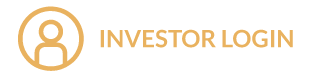
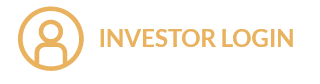
landing page changes

diff --git a/src/pages/landing-screen/Landing2.js b/src/pages/landing-screen/Landing2.js
@@ -11,6 +11,8 @@ import sunImg from "./../../assets/images/sun_gif.gif";
 // import sunImg from "./../../assets/images/sun.gif";
 
 import loginImg from "./../../assets/images/Investor-LoginBTN.png";
+import loginImgHover from "./../../assets/images/Investor-LoginBTNwhite.png";
+
 import TransitionButton from "../../components/common/transitionButton";
 const useStyles = makeStyles({
   main: {
@@ -161,9 +163,28 @@ const useStyles = makeStyles({
     marginTop: "60px",
     textAlign: "center",
     paddingRight: "20px",
+    cursor: "pointer",
   },
   submitBtn: {
     margin: "auto",
+  },
+  loginBtn: {
+    background: `url(${loginImgHover})`,
+    width: "150px",
+    height: "40px",
+    backgroundSize: "150px",
+    backgroundRepeat: "no-repeat",
+    margin: "auto",
+    alignSelf: "center",
+    left: "0",
+    marginRight: "0",
+    "&:hover": {
+      background: `url(${loginImg})`,
+      width: "150px",
+      height: "40px",
+      backgroundSize: "150px",
+      backgroundRepeat: "no-repeat",
+    },
   },
   "@media only screen and (max-width: 480px)": {
     web: {
@@ -180,8 +201,16 @@ const useStyles = makeStyles({
       alignItems: "center",
     },
     head1: {
-      fontSize: "9px",
-      // width: "60%",
+      fontSize: "15px",
+      wordWrap: "break-word",
+      whiteSpace: "initial",
+      width: "80%",
+      height: "auto",
+      lineHeight: "27px",
+      margin: "auto",
+      marginTop: "20px",
+      color: "#E9B25F",
+      background: "none",
     },
     head2: {
       fontSize: "20px",
@@ -241,6 +270,9 @@ const useStyles = makeStyles({
       marginTop: "30px",
       textAlign: "center",
       paddingRight: "0 !important",
+    },
+    loginBtn: {
+      marginRight: "auto",
     },
   },
 });
@@ -312,14 +344,14 @@ const Landing2 = (props) => {
           <div className={classes.logo}>
             <img src={logo} width="150px" style={{marginLeft: "20px"}}></img>
 
-            {/* <img src={logo} width="150px"></img> */}
-            <img
+            <div className={classes.loginBtn}></div>
+            {/* <img
               style={{marginRight: "20px"}}
               src={loginImg}
               width="150px"
               onClick={() => {
                 history.push("/investorlogin2");
-              }}></img>
+              }}></img> */}
           </div>
           {/* */}
         </div>
@@ -332,7 +364,7 @@ const Landing2 = (props) => {
             <div className={classes.head2}>
               <span>
                 THE HOLY GRAIL OF{" "}
-                <span style={{color: "#FAAC09"}}>BITCOIN</span>
+                <span style={{color: "#E9B25F"}}>BITCOIN</span>
               </span>
               <span className={classes.head2_2}>
                 {LANDING_CONSTANTS.L2_HEAD2_2}
@@ -361,7 +393,7 @@ const Landing2 = (props) => {
         <div className={classes.headingContainer}>
           <div className={classes.head2}>
             <span>
-              THE HOLY GRAIL OF <span style={{color: "#FAAC09"}}>BITCOIN</span>
+              THE HOLY GRAIL OF <span style={{color: "#E9B25F"}}>BITCOIN</span>
             </span>
             <span className={classes.head2_2}>
               {LANDING_CONSTANTS.L2_HEAD2_2}
@@ -369,7 +401,8 @@ const Landing2 = (props) => {
             <div className={classes.head1}>{LANDING_CONSTANTS.HEAD1} </div>
           </div>
           <div className={classes.loginImgBtn}>
-            <img src={loginImg} width="150px"></img>
+            <div className={classes.loginBtn}></div>
+            {/* <img src={loginImg} width="150px"></img> */}
           </div>
         </div>
       </div>
